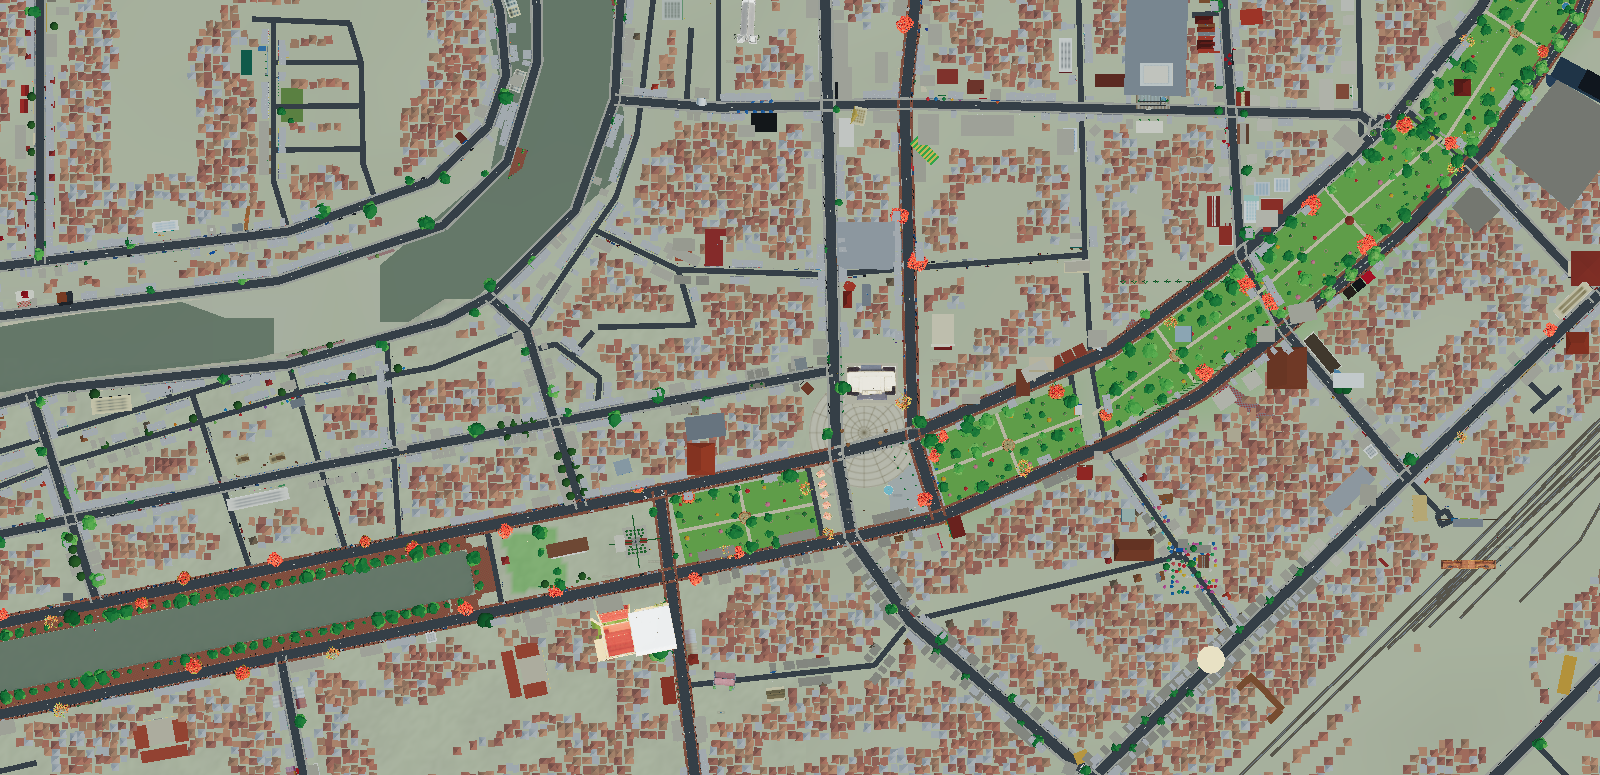
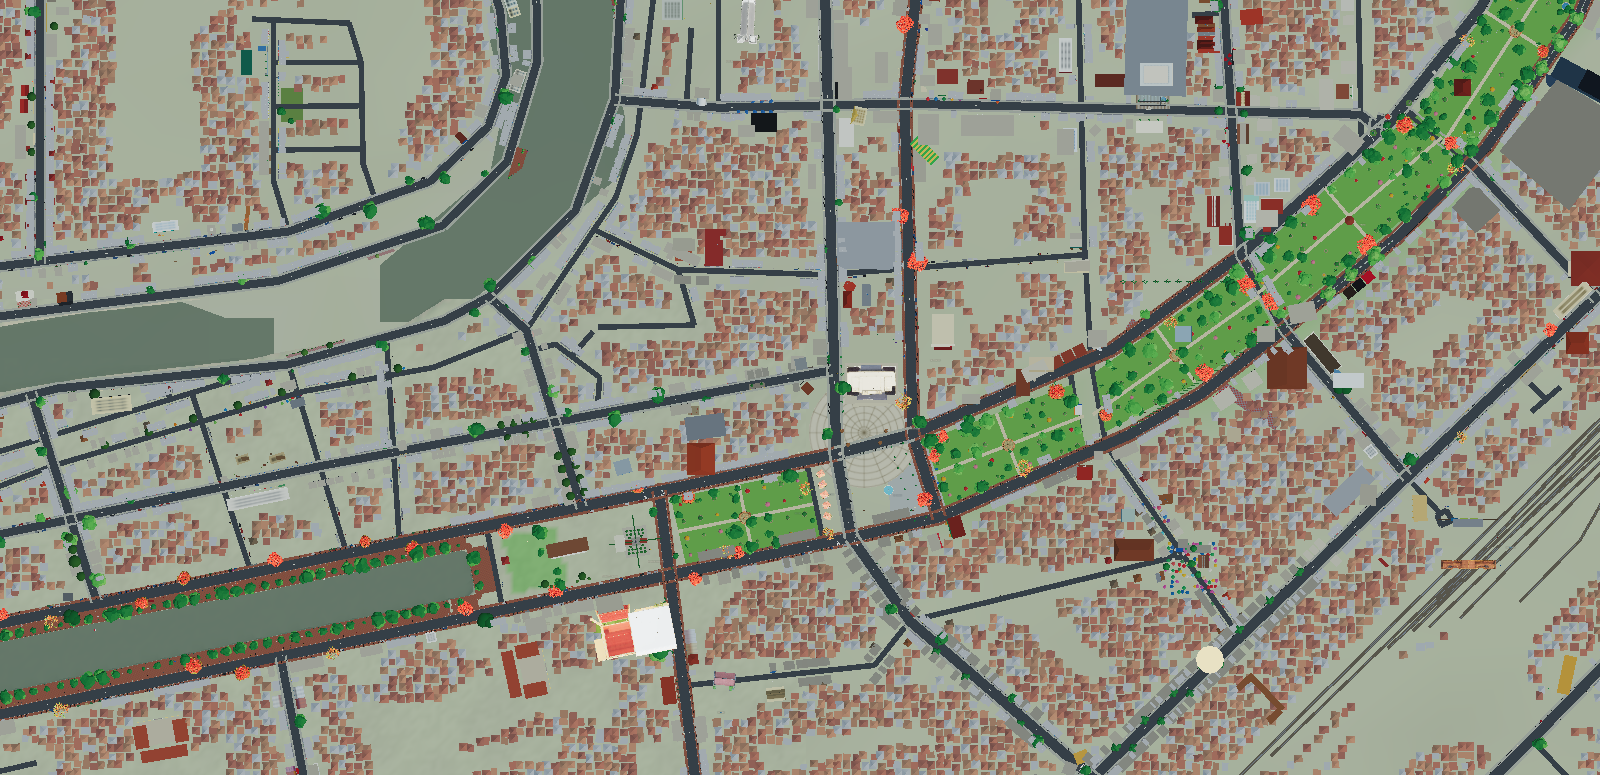
Vệ tinh: mật độ rìa tây/bắc — mở biên block_infill phủ t4/t7
block_infill lưới dừng gx≥-1100/gz≥-900 → rìa tây (t4) + bán đảo Bạch Đằng (t7)
trống dù real dày nhà. Đo ~12.7k nhà < CAPB 15000 (chưa bão hòa) → mở biên
gx -1750..900, gz -1320..560, CAPB→20000. Guard evidence/water tự giới hạn.
Verify: t4 bán đảo arc + t7 lấp dày, lõi t3 nguyên. KNOWLEDGE (ch).

diff --git a/js/world.js b/js/world.js
@@ -18781,7 +18781,7 @@ const s4Tower = (x, z, ry, W, D, FL, wallHex, name, signTxt, signBg) => {
     const geos = []; const lmPtsB = Object.values(LM);
     let bs = 424241; const brnd = () => { bs = (bs * 1103515245 + 12345) & 0x7fffffff; return bs / 0x7fffffff; };
     let nB = 0;
-    const CAPB = 15000;   // vệ tinh GE: lòng ô kín mái ~100% → lưới dày, nhà gần chạm nhau (tăng 9500→15000: thực tế kín đặc hơn)
+    const CAPB = 20000;   // vệ tinh GE: lòng ô kín mái ~100% → lưới dày, nhà gần chạm nhau (15000→20000: mở biên NW/N cần thêm quota rìa)
     // (PANO-LOOP V1: 5600 cạn quanh gx≈0 → cả dải đông tới Ga trống; 9500 đủ quét hết lưới, vẫn 1 mesh gộp)
     // KHU PHÂN LÔ LIỀN KỀ MỚI cạnh THPT Lê Hồng Phong (GE ảnh 4: dãy nhà trắng đều) — georef từ ảnh
     {
@@ -18815,8 +18815,8 @@ const s4Tower = (x, z, ry, W, D, FL, wallHex, name, signTxt, signBg) => {
       for (let i = 0; i < n; i++) { const sh = 0.78 + 0.22 * Math.max(0, nr.getY(i) * 0.5 + 0.5); c[i*3]=rgb[0]*sh; c[i*3+1]=rgb[1]*sh; c[i*3+2]=rgb[2]*sh; }
       g.setAttribute('color', new THREE.BufferAttribute(c, 3)); return g;
     };
-    for (let gx = -1100; gx <= 900 && nB < CAPB; gx += 8.5) {
-      for (let gz = -900; gz <= 560 && nB < CAPB; gz += 8.5) {
+    for (let gx = -1750; gx <= 900 && nB < CAPB; gx += 8.5) {   // mở biên TÂY -1100→-1750 (phủ rìa tây t4/t7 real dày nhà; guard evidence tự giới hạn)
+      for (let gz = -1320; gz <= 560 && nB < CAPB; gz += 8.5) {  // mở biên BẮC -900→-1320 (phủ bán đảo Sở GTVT/Bạch Đằng t7; guard water/superblock chừa sông Cấm+cảng)
         const x = gx + (brnd() - 0.5) * 4, z = gz + (brnd() - 0.5) * 4;
         if (Math.abs(groundHeightNoDeck(x, z) - LAND_H) > 0.3) continue;
         if (riverFactor(x, z) > 0.01) continue;

diff --git a/KNOWLEDGE.md b/KNOWLEDGE.md
@@ -315,6 +315,12 @@ nhờ model vision ngoài chấm từng cặp, sửa theo cụm, lặp tới khi
 
 ## 10. Nhật ký cập nhật (thêm dòng mới ở TRÊN CÙNG)
 
+- **2026-07-15 (ch)** [VỆ TINH — MẬT ĐỘ RÌA TÂY/BẮC (t4/t7)]: block_infill lưới `gx≥-1100, gz≥-900` → rìa
+    tây (x<-1100, t4) + bắc (z<-900, bán đảo Sở GTVT/Bạch Đằng t7) TRỐNG dù real dày nhà. Đo `block_infill`
+    ~297k tri ≈ 12.7k nhà < CAPB 15000 ⇒ CHƯA bão hòa → mở biên KHÔNG cướp lõi. FIX: `gx -1750..900`,
+    `gz -1320..560`, CAPB 15000→20000. Guard evidence (`_bldGrid 95 || _phGrid 60`) + water/superblock tự
+    giới hạn (chừa sông Cấm/cảng). Verify: t4 bán đảo arc + t7 center-left lấp dày, lõi t3/t6 nguyên. BÀI HỌC:
+    trước khi mở biên generator có CAP, đo count thực (tri/建物) vs CAP — nếu chưa bão hòa thì mở an toàn.
 - **2026-07-15 (cg)** [VỆ TINH — DIỆT "KHỐI MÁI ĐỎ ĐẶC KHỔNG LỒ" (t4/t8)]: nhà OSM footprint LỚN
     (b.a>700m²: chợ/xưởng/cơ quan) bốc trúng ngói-đỏ `roofPalette` (3/4 màu đỏ) → đọc thành 1 mảng đỏ to
     bất thường trên vệ tinh (thực địa chỗ đó mái TÔN/BÊ TÔNG XÁM phẳng). FIX: thêm `roofBigPalette` (xám kim
